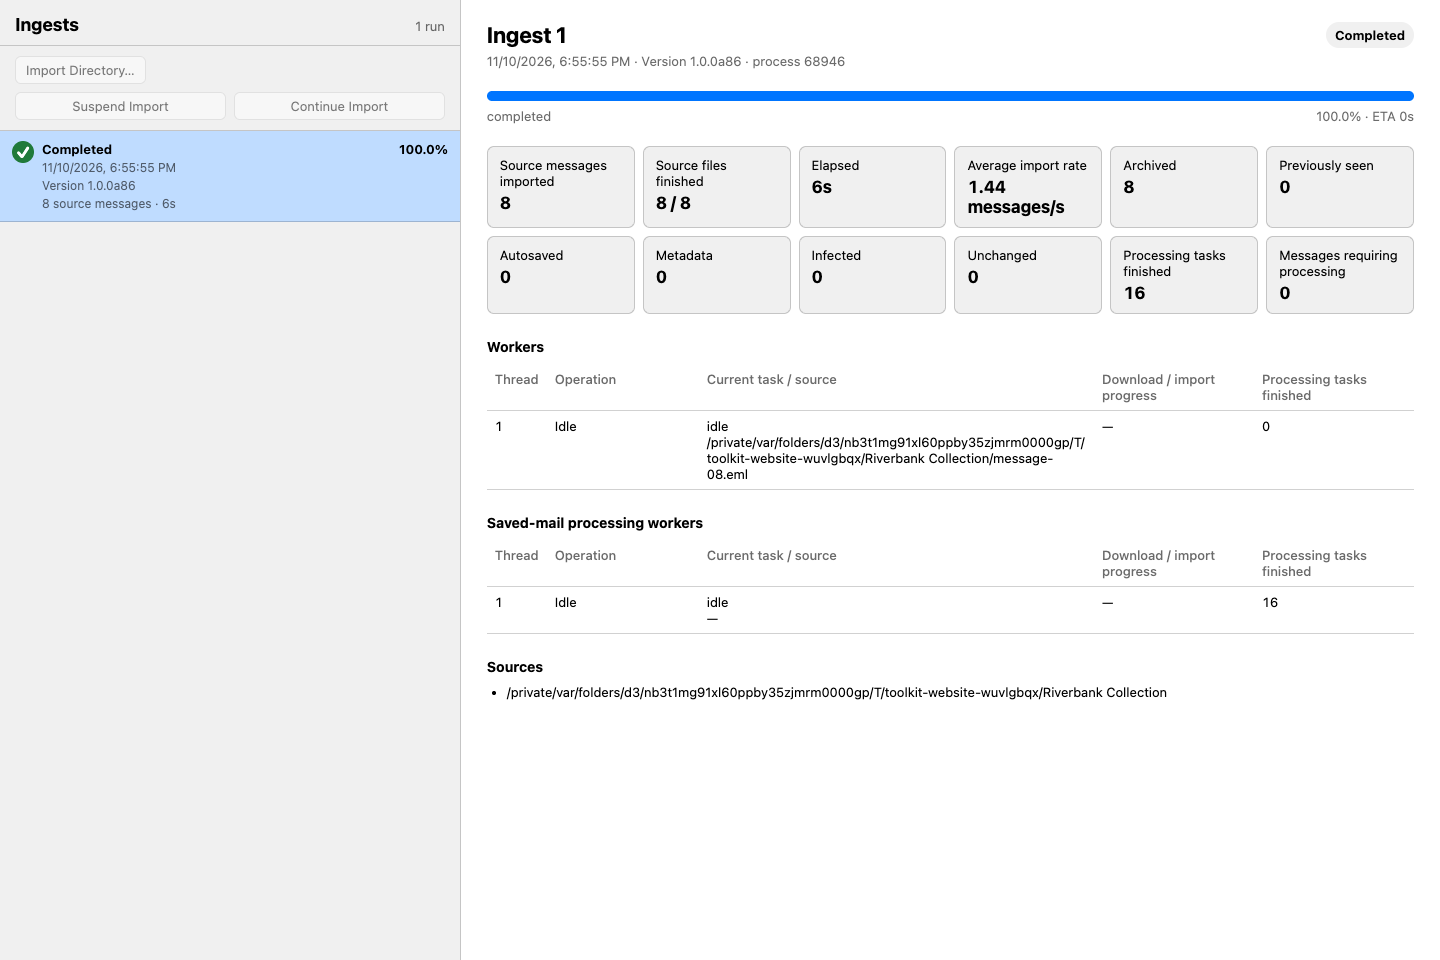
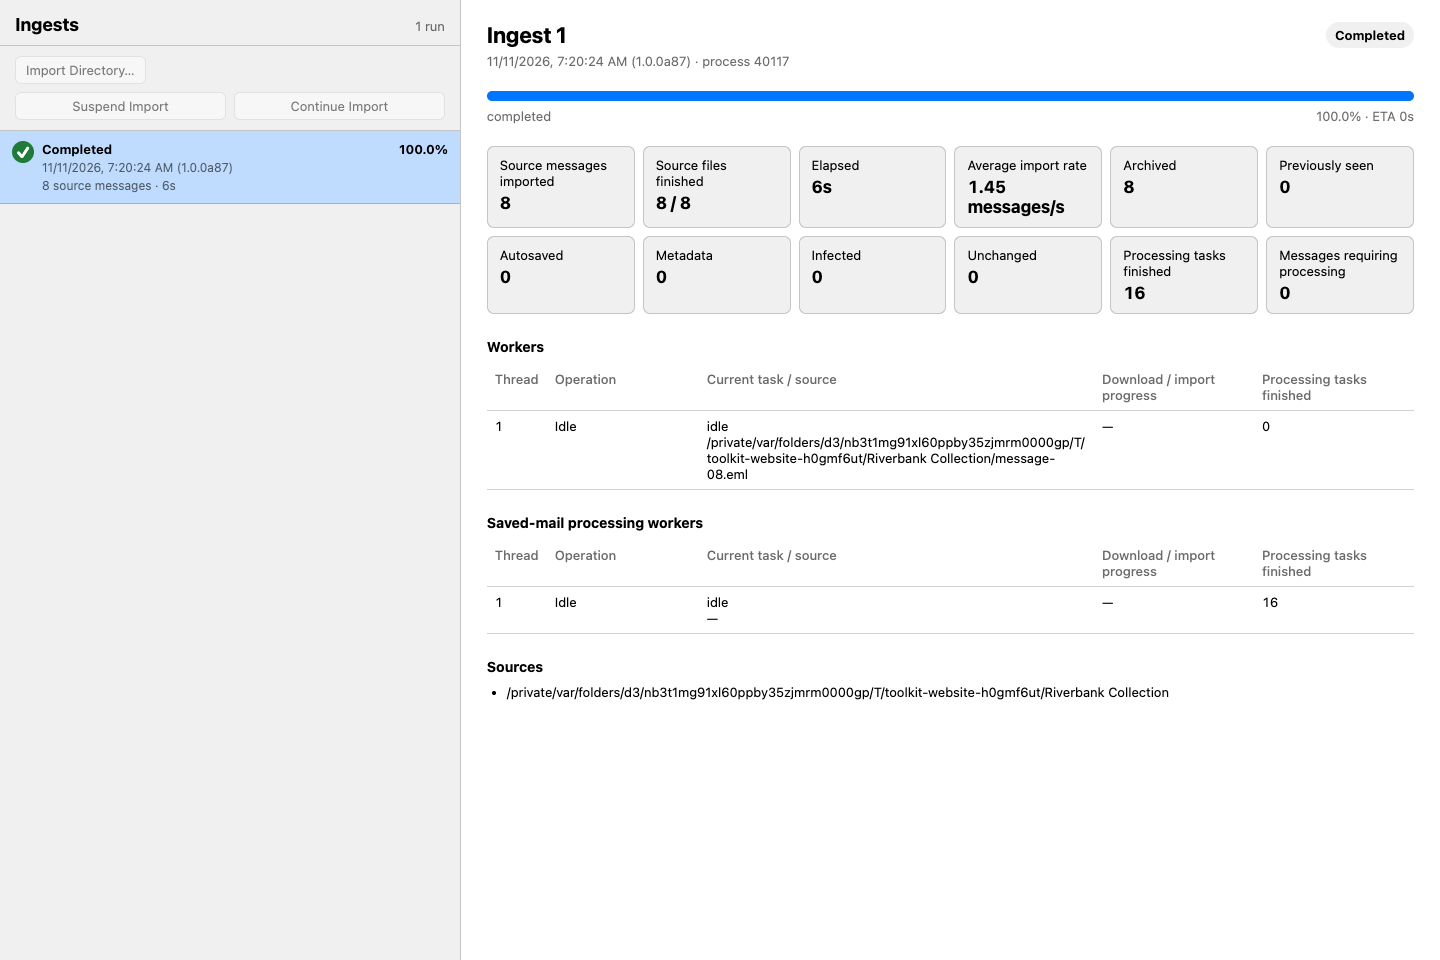
Compact ingest history timestamps and yearly coverage
Append the producing version in parentheses and let the coverage table size to its contents. Advance to alpha87.

diff --git a/gui/ingests.js b/gui/ingests.js
@@ -209,24 +209,22 @@ function historyRow(status) {
   title.append(state, percent);
   const time = document.createElement("span");
   time.className = "history-time";
-  time.textContent = new Date(status.started_at).toLocaleString();
-  const version = document.createElement("span");
-  version.className = "history-version";
-  version.textContent = runVersion(status);
+  time.textContent = runTimestamp(status);
   const summary = document.createElement("span");
   summary.className = "history-summary";
   const imapOnly = status.source_roots.length && status.source_roots.every(root => root.startsWith("imap://"));
   const messages = imapOnly ? status.download_coverage?.messages : status.processed_messages;
   summary.textContent = `${processingMode(status) ? `${integer(status.processing_jobs_completed)} processing tasks finished`
     : messages == null ? "Source message count unavailable" : `${integer(messages)} source messages`} · ${formatDuration(status.elapsed_seconds)}`;
-  main.append(title, time, version, summary);
+  main.append(title, time, summary);
   row.append(dot, main);
   row.addEventListener("click", () => { selectedStatusId = status.status_id; render(); });
   return row;
 }
 
-function runVersion(status) {
-  return status.application_version ? `Version ${status.application_version}` : "Version unavailable";
+function runTimestamp(status) {
+  const timestamp = new Date(status.started_at).toLocaleString();
+  return `${timestamp} (${status.application_version || "version unavailable"})`;
 }
 
 function renderDetail(status) {
@@ -245,7 +243,7 @@ function renderDetail(status) {
   const title = document.createElement("h1");
   title.textContent = `Ingest ${status.run_pk}`;
   const subtitle = document.createElement("p");
-  subtitle.textContent = `${new Date(status.started_at).toLocaleString()} · ${runVersion(status)} · process ${status.process_id}`;
+  subtitle.textContent = `${runTimestamp(status)} · process ${status.process_id}`;
   if (status.scan_policy === "not-scanned") {
     subtitle.textContent += " · WARNING: imported without antivirus scanning";
     subtitle.className = "failure";

diff --git a/gui/ingests.css b/gui/ingests.css
@@ -41,7 +41,9 @@ body { display: flex; flex-direction: column; }
 .history-main { min-width: 0; }
 .history-title { display: flex; justify-content: space-between; gap: 6px; font-weight: 650; }
 .history-state { text-transform: capitalize; }
-.history-time, .history-version, .history-summary { display: block; margin-top: 3px; overflow: hidden; color: var(--muted); text-overflow: ellipsis; white-space: nowrap; font-size: 12px; }
+.history-time, .history-summary { display: block; margin-top: 3px; color: var(--muted); font-size: 12px; }
+.history-time { overflow-wrap: anywhere; }
+.history-summary { overflow: hidden; text-overflow: ellipsis; white-space: nowrap; }
 .ingest-detail { min-width: 0; overflow: auto; padding: 22px 26px 40px; }
 .detail-heading { display: flex; align-items: flex-start; justify-content: space-between; gap: 18px; }
 .detail-heading h1 { margin: 0 0 5px; font-size: 22px; }
@@ -73,6 +75,6 @@ body { display: flex; flex-direction: column; }
 #error { position: fixed; left: 50%; bottom: 20px; transform: translateX(-50%); max-width: 80%; padding: 10px 14px; border-radius: 7px; color: white; background: #a22; box-shadow: 0 4px 20px #0006; }
 
 .message-coverage { margin-bottom: 20px; }
-.coverage-table { border-collapse: collapse; width: 100%; }
+.coverage-table { border-collapse: collapse; }
 .coverage-table th, .coverage-table td { padding: 6px 8px; border-bottom: 1px solid var(--border); text-align: left; }
 .coverage-table th:last-child, .coverage-table td:last-child { text-align: right; }

diff --git a/e2e_tests/test_ingest_diagnostics.py b/e2e_tests/test_ingest_diagnostics.py
@@ -147,9 +147,10 @@ def test_failed_run_shows_recorded_version_or_unavailable(tmp_path: Path, page: 
     original = saved.path.read_bytes()
     bridge(page, IngestWindowApi(archive), ("history", "antivirus", "can_import_directory"))
     page.goto((GUI_DIRECTORY / "ingests.html").as_uri())
-    label = f"Version {recorded_version}" if recorded_version else "Version unavailable"
-    expect(page.locator(".history-version")).to_have_text(label)
-    expect(page.locator(".detail-heading")).to_contain_text(label)
+    timestamp = page.evaluate("value => new Date(value).toLocaleString()", progress.state.started_at.isoformat())
+    label = f"{timestamp} ({recorded_version or 'version unavailable'})"
+    expect(page.locator(".history-time")).to_have_text(label)
+    expect(page.locator(".detail-heading p")).to_contain_text(f"{label} · process")
     expect(page.locator("div.failure")).to_contain_text("Synthetic failure retained")
     assert saved.path.read_bytes() == original
     page.screenshot(path=str(tmp_path / "failed-run-version.png"), full_page=True)
@@ -215,7 +216,7 @@ def test_long_failure_detail_wraps_without_hiding_source_or_traceback(tmp_path: 
     bridge(page, IngestWindowApi(archive), ("history", "antivirus", "can_import_directory"))
     page.goto((GUI_DIRECTORY / "ingests.html").as_uri())
     failure = page.locator("div.failure")
-    expect(page.locator(".history-version")).to_have_text(f"Version {APPLICATION_VERSION}")
+    expect(page.locator(".history-time")).to_contain_text(f"({APPLICATION_VERSION})")
     expect(failure).to_contain_text("Traceback (most recent call last)")
     expect(failure).to_contain_text("Message SHA-256:")
     expect(failure).to_contain_text(str(source))
@@ -258,6 +259,8 @@ def test_imap_coverage_and_unknown_eta(tmp_path: Path, page: Page, legacy: bool)
         expect(coverage).to_contain_text("This run: 3 messages")
         expect(coverage).to_contain_text("Earliest: 2020-06-15")
         expect(coverage).to_contain_text("Latest: 2024-06-15")
-        expect(coverage.locator("tbody tr")).to_have_text(["20202", "20241"])
+        table = coverage.get_by_role("table")
+        expect(table.locator("tbody tr")).to_have_text(["20202", "20241"])
+        assert table.evaluate("table => table.offsetWidth < table.parentElement.clientWidth")
     page.screenshot(path=str(tmp_path / "imap-message-coverage.png"), full_page=True)
     expect(page.locator("body")).not_to_contain_text("ETA finalizing")

diff --git a/doc/implementation/DESKTOP.md b/doc/implementation/DESKTOP.md
@@ -490,11 +490,11 @@ on font-dependent fixture height or iframe load timing to create overflow.
 Native archive/status change notifications trigger the main window to read
 the latest shared `IngestStatus` into its bottom status line. The separate
 `ingests.html` application reads all typed status files on those same events and presents run history beside aggregate and
-per-worker detail. **Version** labels use the snapshot's optional `application_version`, recorded
+per-worker detail. Timestamp suffixes use the snapshot's optional `application_version`, recorded
 from `identity.APPLICATION_VERSION` by the producer. The launch version is read
 once from installed metadata and shared with About/title bars, so editable
 reinstalls cannot relabel a later failure. Missing legacy versions display
-**Version unavailable**; history reading preserves the original JSON.
+**(version unavailable)**; history reading preserves the original JSON.
 Both the status-line action and the native
 **Window → Ingests** menu route through a per-document singleton window owner: an existing
 window is restored and ordered to the front, while a closed one is recreated
@@ -1220,7 +1220,8 @@ is introduced.
 Unknown-byte source inventory reports ETA unavailable while partitions remain;
 finishing known byte input may still report finalizing before its checkpoint.
 Ingests shows run-specific message count, earliest/latest IMAP INTERNALDATE values
-in UTC and year counts before the workers table. The range uses source IMAP INTERNALDATE, not header dates or download times.
+in UTC and year counts before the workers table. The coverage table uses intrinsic
+widths for both columns. The range uses source IMAP INTERNALDATE, not header dates or download times.
 Separate acquisition counters exclude attached-message extraction and saved processing.
 Acquisition records complete bodies before sending them to the scan pool.
 Historical IMAP runs without recorded download coverage show unavailable in both

diff --git a/doc/requirements/DESKTOP.md b/doc/requirements/DESKTOP.md
@@ -60,9 +60,10 @@ an X for failed/disk-full/stale, and a pause symbol for interrupted runs, alongs
 text labels. Accepted GUI imports show startup immediately while archive
 preparation precedes the first saved run snapshot; old failures retain their state.
 Each saved run must retain the application version captured at producer launch,
-including a later failure. Show it in the history entry and selected run details.
+including a later failure. Show it in parentheses after the timestamp in the
+history entry and selected run details.
 An editable reinstall or a newer history viewer must not relabel a saved run.
-Older snapshots without a version display **Version unavailable**, without rewriting them.
+Older snapshots without a version display **(version unavailable)** without rewriting them.
 Explain that finished processing jobs are work for messages or MIME parts,
 potentially several per email, rather than newly imported message counts.
 Label saved work **Processing saved mail**. During processing stages, including
@@ -910,7 +911,8 @@ source activity while sampling the exact remaining count at shutdown.
 Unknown-byte source inventory reports ETA unavailable while partitions remain;
 finishing known byte input may still report finalizing before its checkpoint.
 Ingests shows run-specific message count, earliest/latest IMAP INTERNALDATE values
-in UTC and year counts before the workers table. The range uses source IMAP INTERNALDATE, not header dates or download times.
+in UTC and year counts before the workers table. The Year and Messages columns
+size to their contents. The range uses source IMAP INTERNALDATE, not header dates or download times.
 Separate acquisition counters exclude attached-message extraction and saved processing.
 Count complete IMAP bodies when received, including bodies awaiting scanning or
 publication. Historical missing counts or dates show unavailable; no dated messages shows an explicit

diff --git a/doc/implementation.md b/doc/implementation.md
@@ -52,8 +52,9 @@ than a second change log. Platform acceptance is stated alongside its evidence.
   source totals or dates. IMAP run details show
   complete source downloads, IMAP INTERNALDATE UTC bounds and per-year coverage.
   The acquisition worker records complete bodies before scanning and publication.
-  Ingest snapshots record the shared immutable launch version. Ingests displays that
-  saved value in history and run details, with an unavailable fallback for older files.
+  Ingest snapshots record the shared immutable launch version. History and run
+  details append it to the timestamp in parentheses, with an unavailable fallback
+  for older files. The coverage table uses its intrinsic column widths.
   The worker table uses fixed column widths, with task/source taking the remaining
   space. See [desktop](implementation/DESKTOP.md).
 - The GUI omits the empty-table placeholder while its status line reports search

diff --git a/doc/requirements.md b/doc/requirements.md
@@ -51,8 +51,9 @@ does not establish that every platform or release gate has passed.
   IMAP run details show
   complete source downloads, IMAP INTERNALDATE UTC bounds and per-year coverage.
   Older IMAP history without download counts shows them as unavailable.
-  Run history preserves the producing application's launch version, including failures;
-  older snapshots without that evidence display the version as unavailable.
+  Run history shows the producing application's launch version in parentheses
+  after the timestamp, including failures. Older snapshots show it as unavailable.
+  The per-year coverage table is sized to its contents.
   Worker activity updates keep four table columns fixed; task/source expands
   into the remaining width. See [desktop](requirements/DESKTOP.md).
 - Pending GUI searches show progress without claiming no matches before

diff --git a/doc/RELEASE_NOTES.md b/doc/RELEASE_NOTES.md
@@ -6,6 +6,11 @@ Entries describe their recorded revisions. For current behavior use the
 [user manual](USER_MANUAL.md) and [CLI reference](CLI_REFERENCE.md). Retired
 Rust delivery plans and historical package checks are not current acceptance.
 
+## 1.0.0a87 — compact Ingests history and year coverage
+
+- Show the producing version in parentheses after the run timestamp.
+- Size the Year and Messages columns to their contents.
+
 ## 1.0.0a86 — count completed IMAP transfers before scanning
 
 - Include received IMAP bodies in the run's download coverage even when scanning
